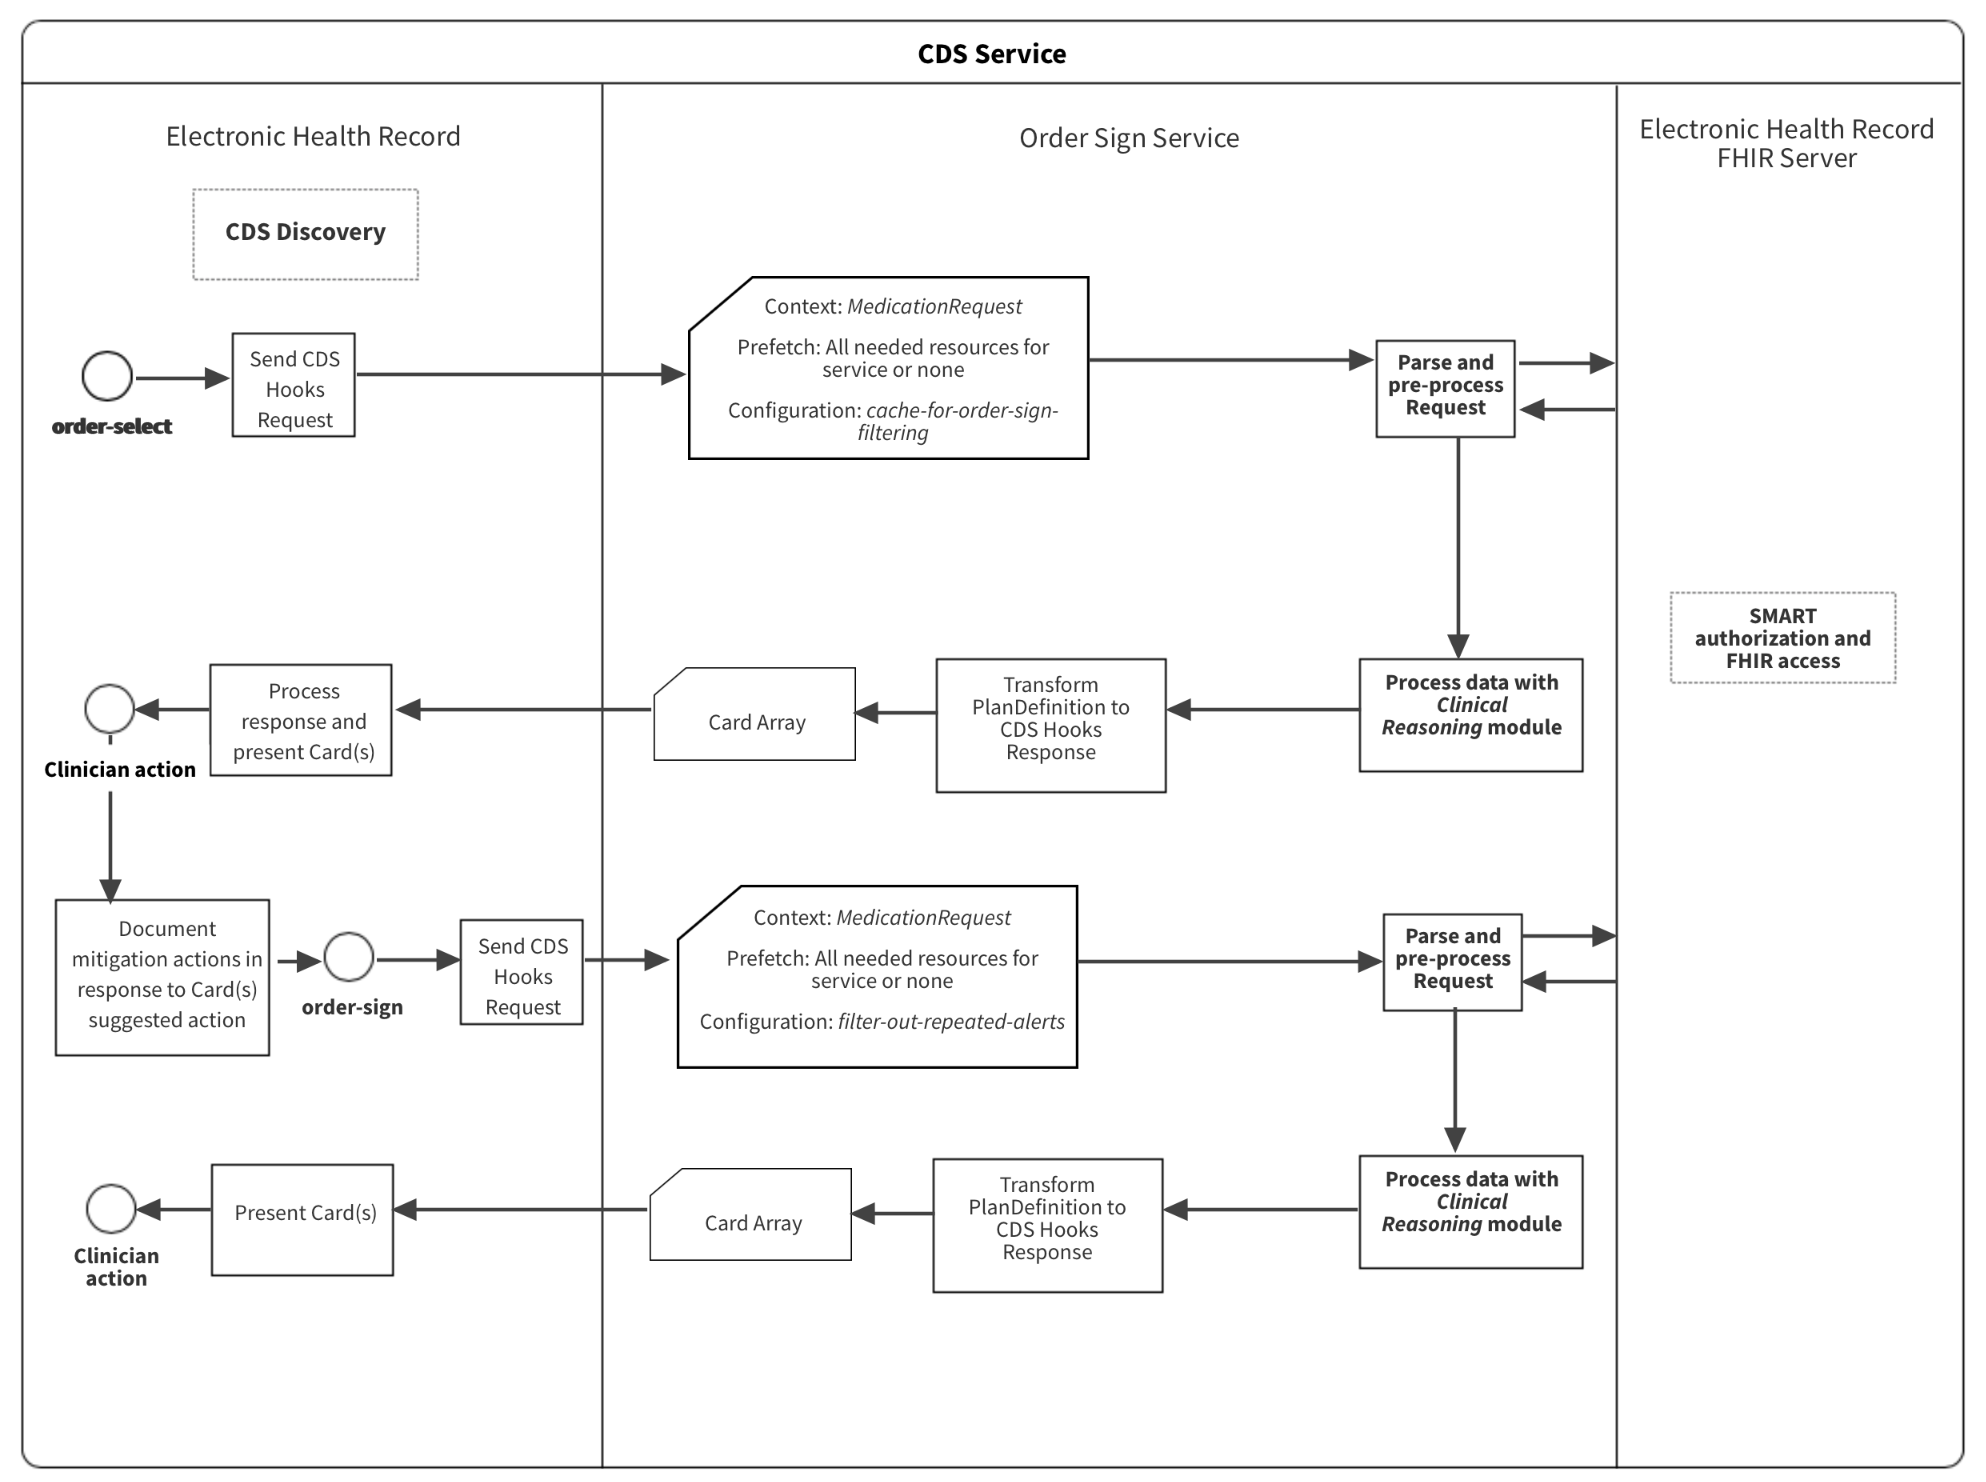
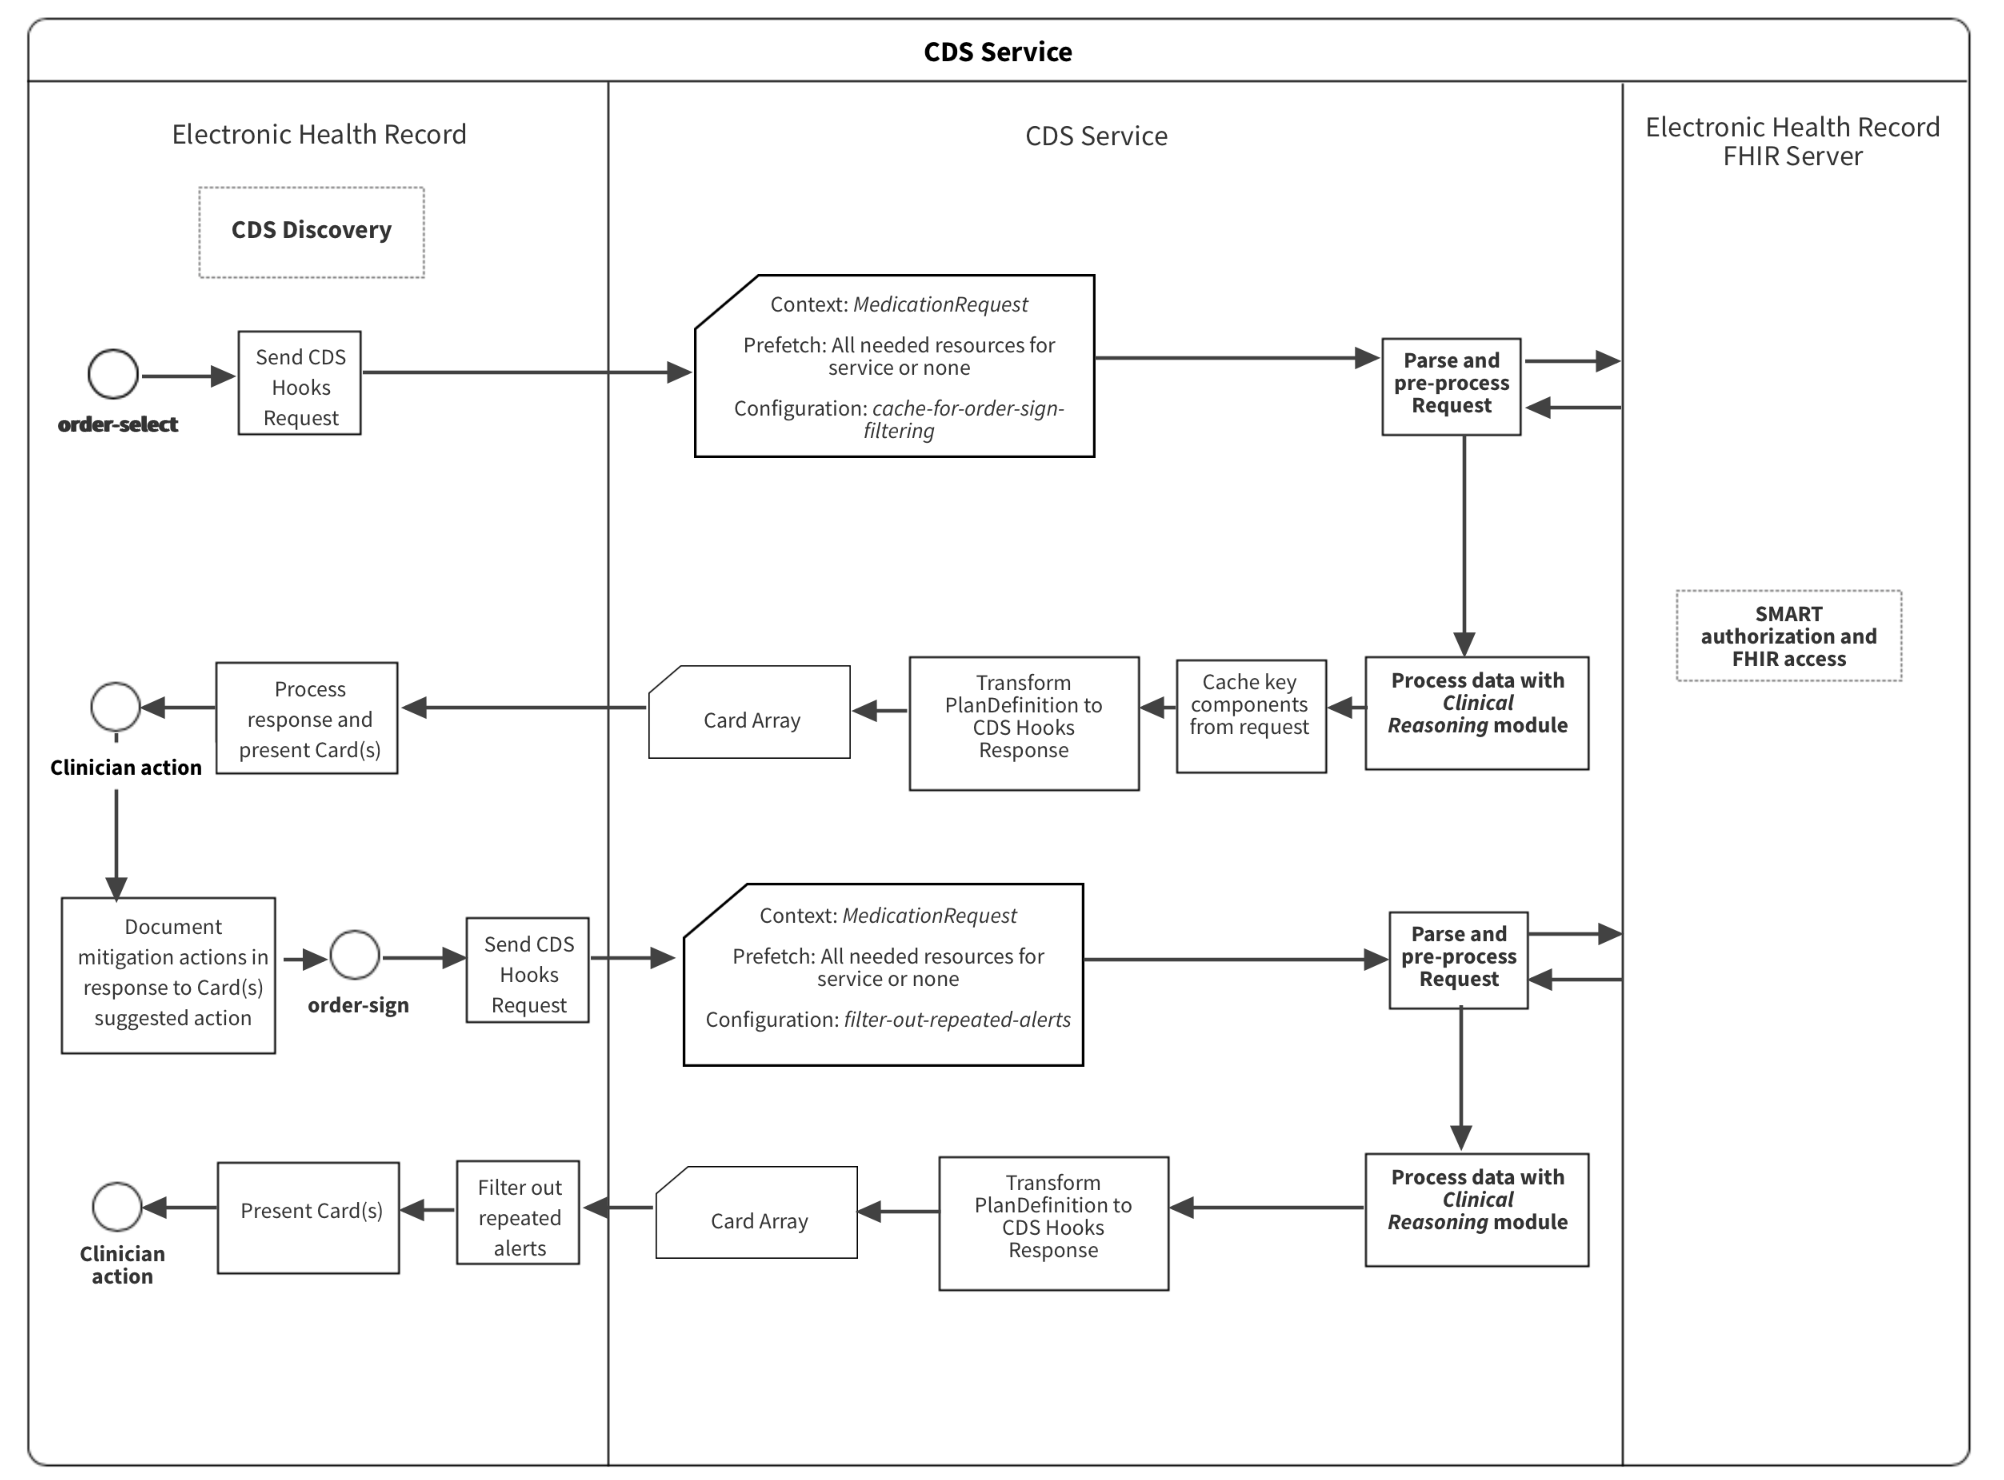
Updating cds service image to show where caching and filtering occur. Updating current.md to include references to relevant sections on the page

diff --git a/docs/specification/current.md b/docs/specification/current.md
@@ -1096,19 +1096,27 @@ As each hook progresses through a process of being defined, tested, implemented,
     hookMaturity | 0 - Draft
 
 ## Coordination 
-The primary motivation for configuration options is to support the advanced functionality of coordinating between `order-select` and `order-sign` to prevent alert duplication. Although it might seem reasonable to have the service default to this kind of coordination with no input from the EHR client, we think that there might be potential scenarios where this form of duplication might be desirable. For example, a teaching hospital might have resident physicians go through the order selection process and then have an attending physician sign off on the order. In this situation, having the same CDS Hooks cards returned at `order-select` and `order-sign` would not be perceived as a duplication to the attending. There might be other scenarios where repeating cards across the hooks makes sense. Thus, it seems best to have the EHR client some active role in the decision of whether to filter out alert responses. Using configuration options sent from the EHR client to the service provides a way for the client to have a say in how apparent duplication is handled.
+The primary motivation for configuration options is to support the functionality of coordinating between `order-select` and `order-sign` to prevent alert duplication. Although it might seem reasonable to have the service default to this kind of coordination with no input from the EHR client, we think that there might be potential scenarios where this form of duplication might be desirable. For example, a teaching hospital might have resident physicians go through the order selection process and then have an attending physician sign off on the order. In this situation, having the same CDS Hooks cards returned at `order-select` and `order-sign` would not be perceived as a duplication to the attending. There might be other scenarios where repeating cards across the hooks makes sense. Thus, it seems best to have the EHR client some active role in the decision of whether to filter out alert responses. Using configuration options sent from the EHR client to the service provides a way for the client to have a say in how apparent duplication is handled.
 
-This implementation guide discusses a mechanism for providing the CDS service configuration from CDS Hooks requests. The use of this mechanism is required for the advanced functionality of coordinating between order-select and order-sign. There is no requirement to use additional configuration options at this time. 
+This implementation guide discusses a mechanism for providing the CDS service configuration from CDS Hooks requests. The use of this mechanism is required for the functionality of coordinating between order-select and order-sign. There is no requirement to use additional configuration options at this time. 
 
 
 ### Implementation
 
 #### Summary of Operations
-Coordinating `order-select` and `order-sign` hooks involves sending configuration information to the CDS Service which prompts the service to cache data from the `order-select` request and use that data prior to returning cards from an `order-select` request to determine if the cards would appear a duplicates to the clinician. The figure below depicts the summary of operations that result in coordination between the `order-select` and `order-sign` hooks.
+Coordinating `order-select` and `order-sign` hooks involves sending configuration information to the CDS Service which prompts the service to cache data from the `order-select` request and use that data prior to returning cards from an `order-signed` request to determine if the cards would appear a duplicates to the clinician. The figure below depicts the summary of operations that result in coordination between the `order-select` and `order-sign` hooks.
 
 ![cds service ](../images/cds_service.png)
 
 **CDS Discovery Response**
+Prior to a hook trigger and subsequent processes, the EHR MUST initiate a CDS Discovery. CDS Discovery is to identify CDS services and obtain associated prefetch templates. A prefetch template is a dictionary of read and search requests for needed resources of a particular service.
+In addition to the attributes specified in the [Discovery](#discovery) section of this page, a new `extension` resource will be required.
+
+Field | Optionality | Type | Description
+----- | ----- | ----- | ---------
+`extension` | REQUIRED | *object* | 
+ 
+ 
 ```
  {
   "services": [
@@ -1146,18 +1154,16 @@ Coordinating `order-select` and `order-sign` hooks involves sending configuratio
 snipped for brevity
 ```
 
-#### Extension
+##### Extension
 
-##### Configuration Items
+###### Configuration Items
 
-The CDS Service MUST process configuration options sent as within an extension resource with the CDS Hooks request in the field `configuration-items`. There are two standart configuration options:  `cache-for-order-sign-filtering` (only used in `order-select`), `filter-out-repeated-alerts` (only used in `order-sign`). All of these configuration options accept Boolean values and are required for the advanced implementation. The `cache-for-order-sign-filtering` option is used to cache the medication resource during `order-select` and is used as a reference during `order-sign` if `filter-out-repeated-alerts` is set to TRUE. The `filter-out-repeated-alerts` option is used to hide card results if they were shown in the `order-select` results.
+The CDS Service MUST process configuration options sent as within an extension resource with the CDS Hooks request in the field `configuration-items`. There are two standart configuration options:  `cache-for-order-sign-filtering` (only used in `order-select`), `filter-out-repeated-alerts` (only used in `order-sign`). All of these configuration options accept Boolean values and are required. The `cache-for-order-sign-filtering` option is used to cache the medication resource during `order-select` and is used as a reference during `order-sign` if `filter-out-repeated-alerts` is set to TRUE. The `filter-out-repeated-alerts` option is used to hide card results if they were shown in the `order-select` results.
 
 #### FHIR Server Request
 
-With coordination, the parse and pre-process event for an `order-select` request is identical to what occurs with an `order-select` request without coordination except that the CDS Service checks to see if `cache-for-order-sign-filtering` was set to TRUE and, if so, it caches information that it will later use to filter duplicate CDS Hooks cards from a future `order-sign` request. Then, during the parse and pre-process phase for `order-sign`, the CDS service checks to see if `filter-out-repeated-alerts` is also set to TRUE. If so, it then checks the cached data for a match on specific resources and information to identify if the `order-sign` card response would be a duplication. If so, repeated alert cards will not be returned. 
-
-![parse pre-process](../images/parse_pre_process.png)
-
+With coordination, the parse and pre-process event for an `order-select` request is nearly identical to what occurs with an `order-select` request without coordination except that the CDS Service checks to see if `cache-for-order-sign-filtering` was set to TRUE and, if so, it caches information that it will later use to filter duplicate CDS Hooks cards from a future `order-sign` request. Then, during the parse and pre-process phase for `order-sign`, the CDS service checks to see if `filter-out-repeated-alerts` is also set to TRUE. If so, it then checks the cached data for a match on specific resources and information to identify if the `order-sign` card response would be a duplication. If so, repeated alert cards will not be returned. 
+More information regarding how to call a CDS Service can be found in the [HTTP Request](#http-request_1) seciton.
 
 #### Change Log
 
